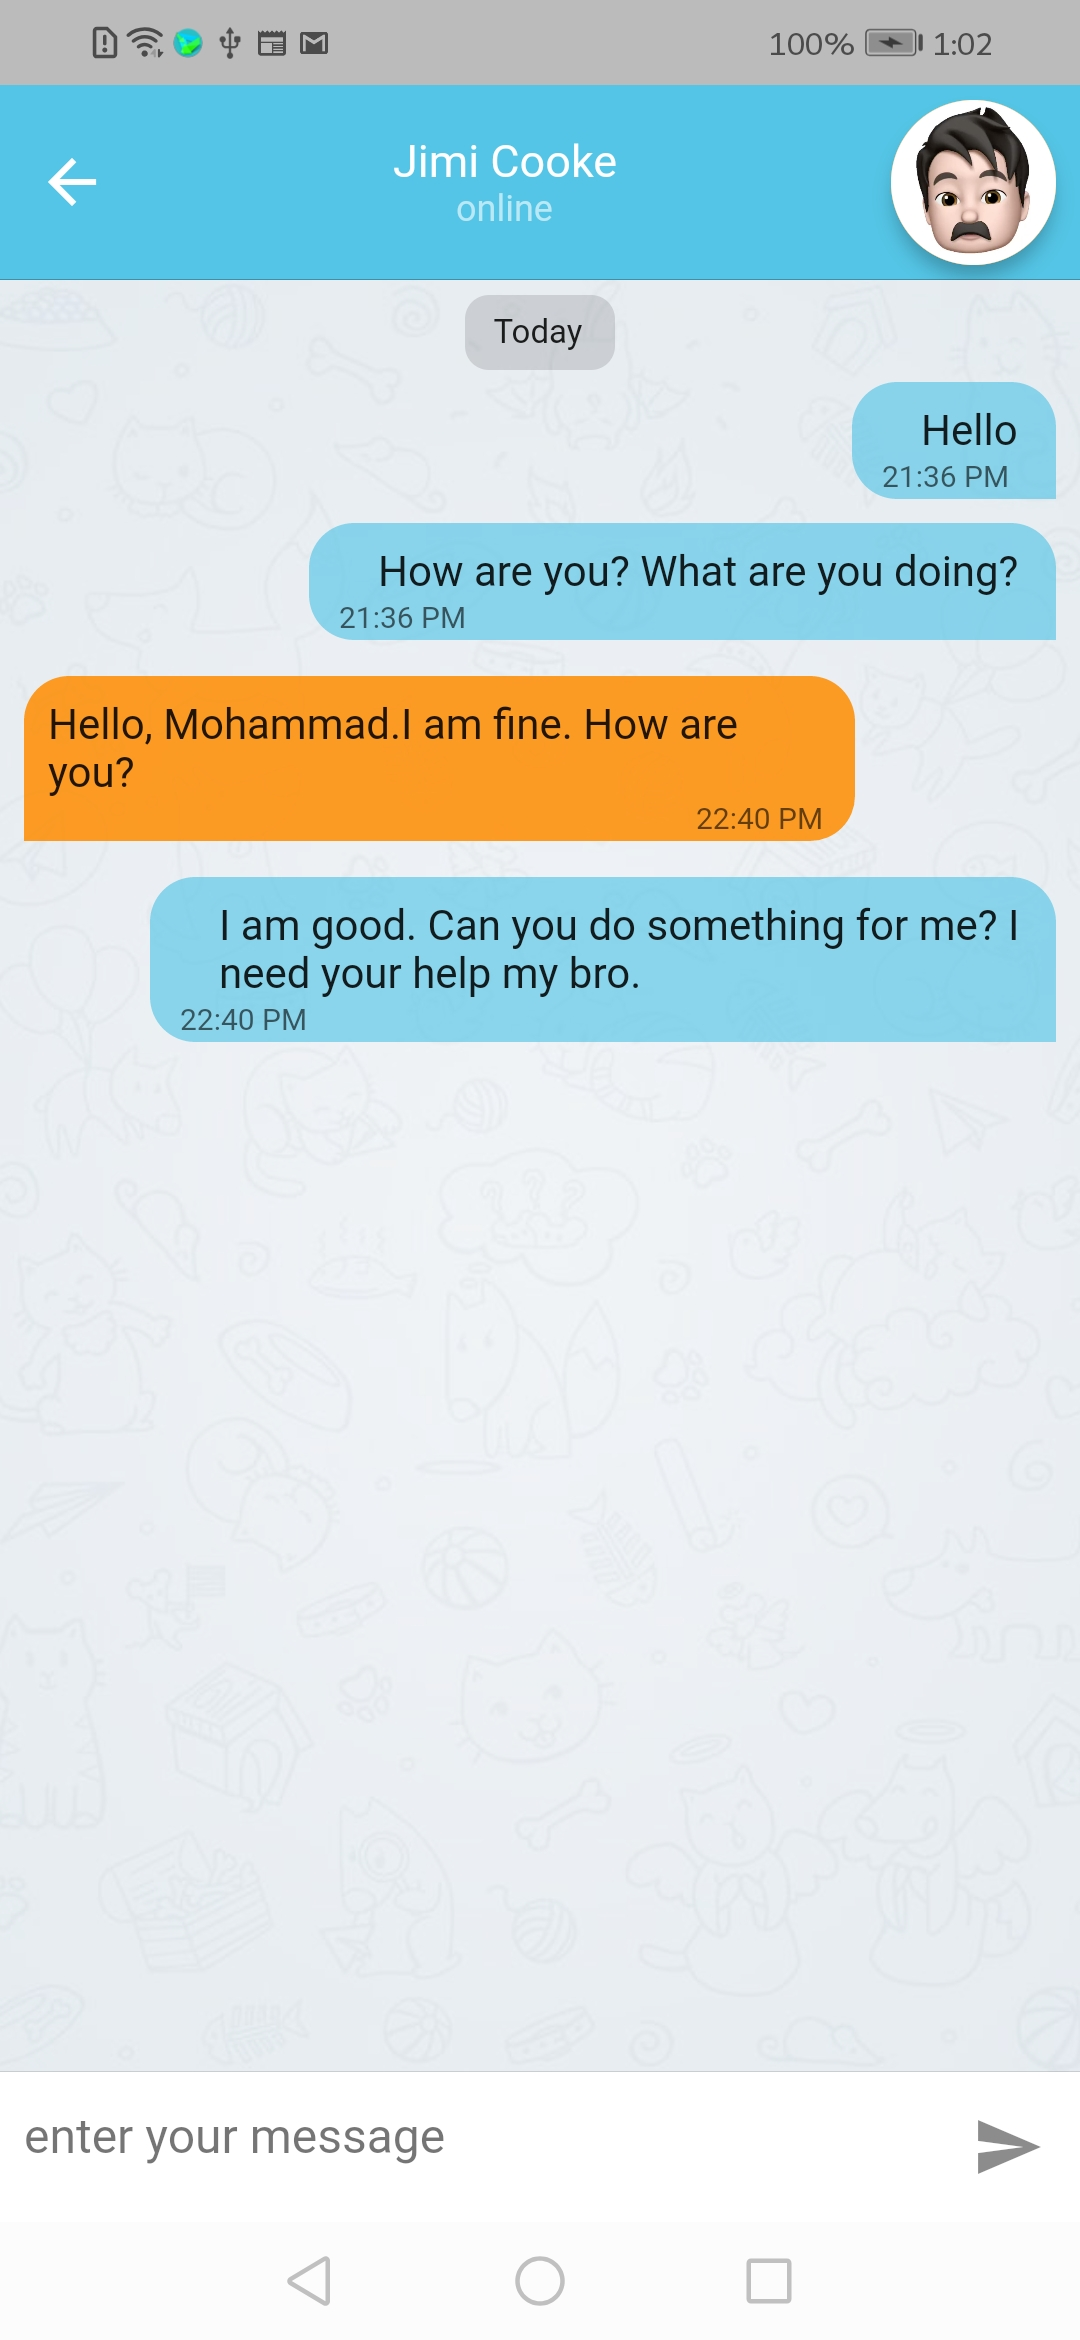
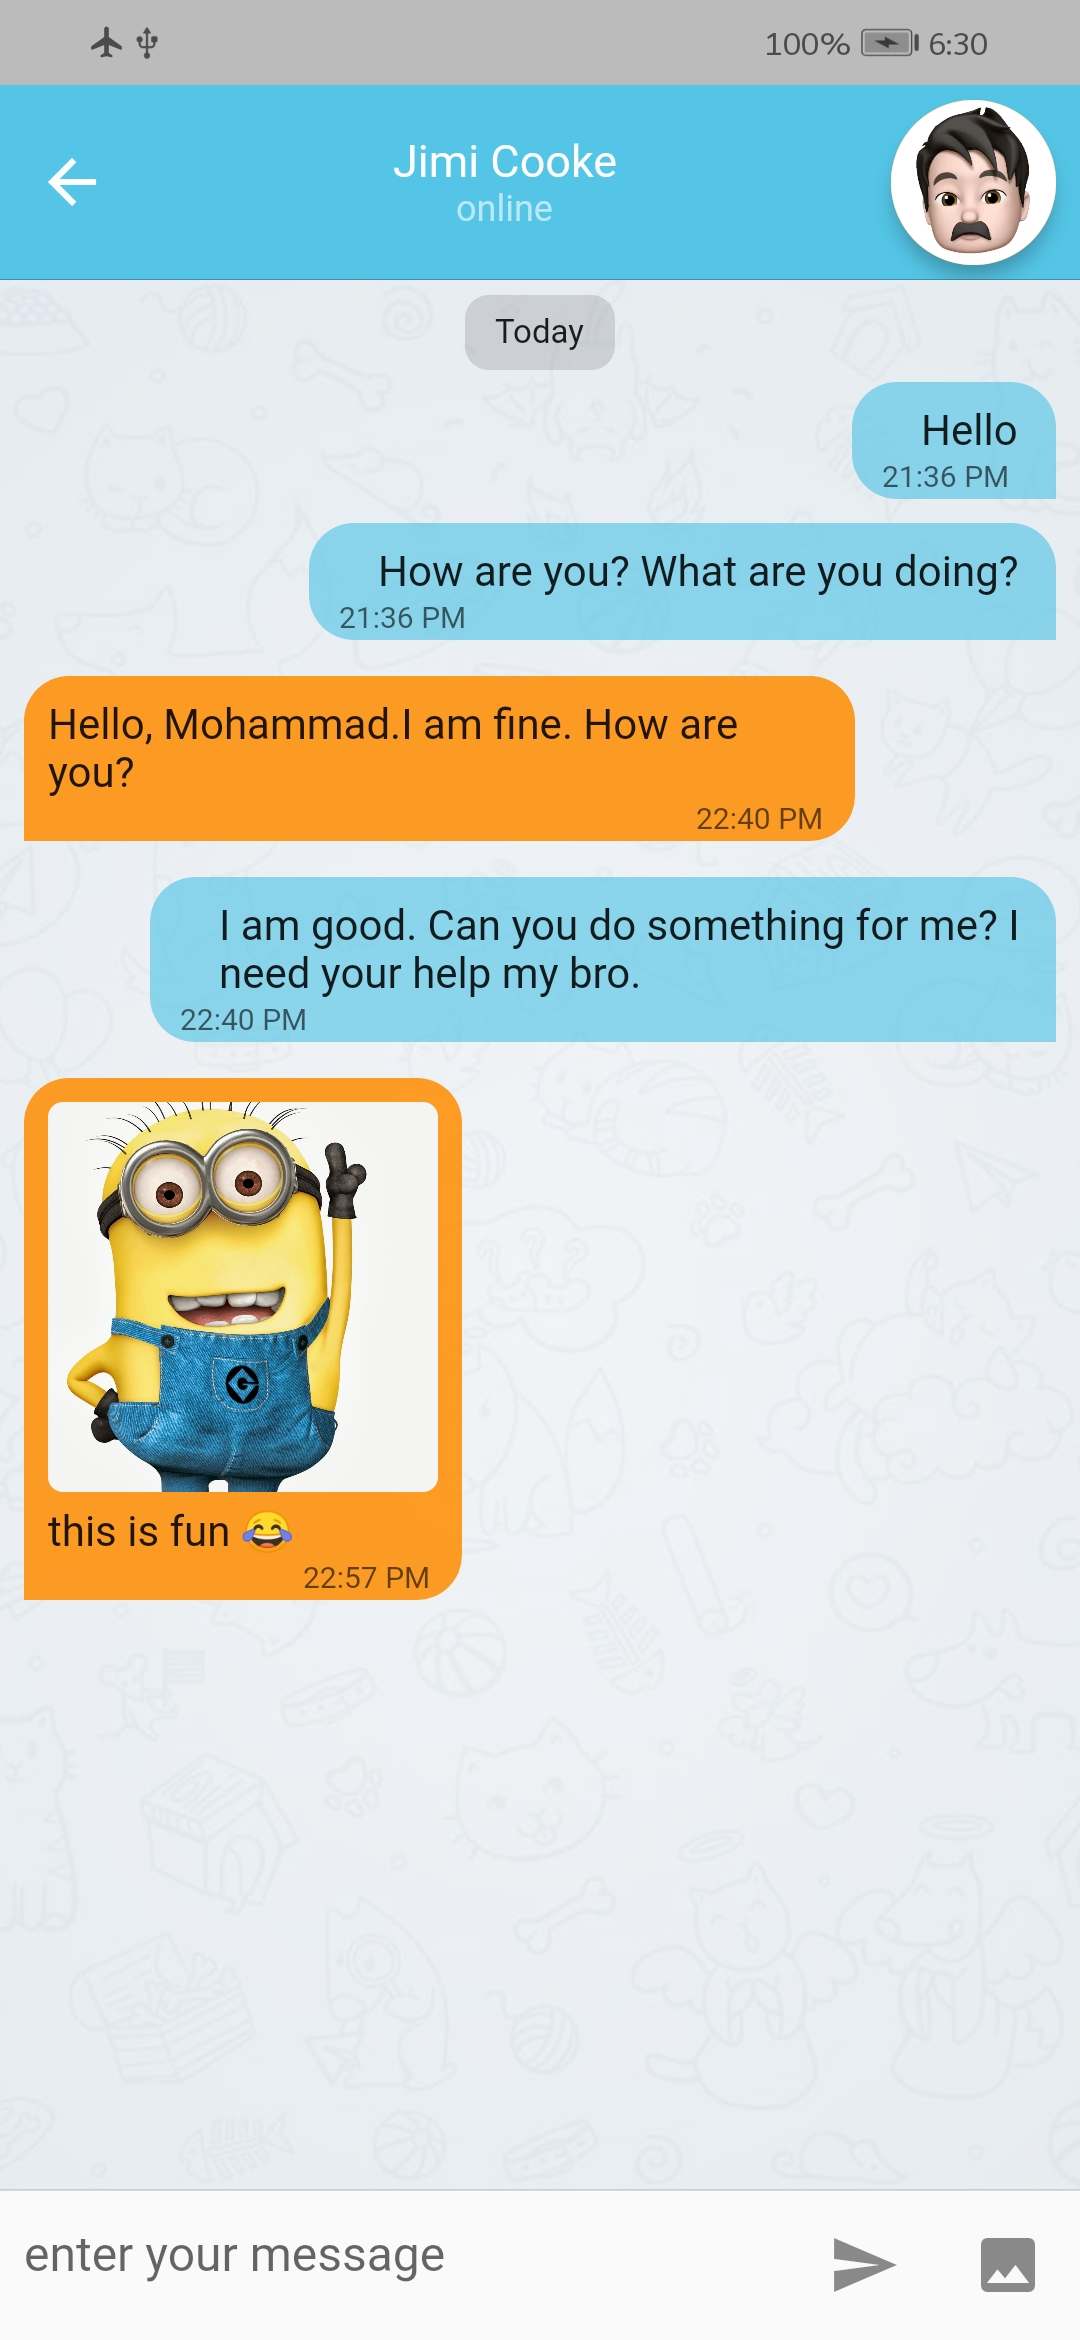
support image, add todo list

diff --git a/lib/View/ChatPageView.dart b/lib/View/ChatPageView.dart
@@ -46,6 +46,7 @@ class _ChatPageViewState extends State<ChatPageView> {
       child: SendedMessageWidget(
         content: 'Hello',
         time: '21:36 PM',
+        isImage: false,
       ),
     ));
     childList.add(Align(
@@ -53,6 +54,7 @@ class _ChatPageViewState extends State<ChatPageView> {
       child: SendedMessageWidget(
         content: 'How are you? What are you doing?',
         time: '21:36 PM',
+        isImage: false,
       ),
     ));
     childList.add(Align(
@@ -60,6 +62,7 @@ class _ChatPageViewState extends State<ChatPageView> {
       child: ReceivedMessageWidget(
         content: 'Hello, Mohammad.I am fine. How are you?',
         time: '22:40 PM',
+        isImage: false,
       ),
     ));
     childList.add(Align(
@@ -68,13 +71,18 @@ class _ChatPageViewState extends State<ChatPageView> {
         content:
             'I am good. Can you do something for me? I need your help my bro.',
         time: '22:40 PM',
+        isImage: false,
       ),
     ));
-  }
-
-  @override
-  void dispose() {
-    super.dispose();
+    childList.add(Align(
+      alignment: Alignment(-1, 0),
+      child: ReceivedMessageWidget(
+        content: 'this is fun 😂',
+        time: '22:57 PM',
+        isImage: true,
+        imageAddress: 'assets/images/fun.jpg',
+      ),
+    ));
   }
 
   @override
@@ -93,7 +101,9 @@ class _ChatPageViewState extends State<ChatPageView> {
                   SizedBox(
                     height: 65,
                     child: Container(
-                      color: Settings.isDarkMode ? Colors.grey[900] : MyColors.blue,
+                      color: Settings.isDarkMode
+                          ? Colors.grey[900]
+                          : MyColors.blue,
                       child: Row(
                         children: <Widget>[
                           IconButton(
@@ -112,11 +122,13 @@ class _ChatPageViewState extends State<ChatPageView> {
                             children: <Widget>[
                               Text(
                                 widget.username ?? "Jimi Cooke",
-                                style: TextStyle(color: Colors.white, fontSize: 15),
+                                style: TextStyle(
+                                    color: Colors.white, fontSize: 15),
                               ),
                               Text(
                                 "online",
-                                style: TextStyle(color: Colors.white60, fontSize: 12),
+                                style: TextStyle(
+                                    color: Colors.white60, fontSize: 12),
                               ),
                             ],
                           ),
@@ -168,7 +180,10 @@ class _ChatPageViewState extends State<ChatPageView> {
                             image: AssetImage(
                                 "assets/images/chat-background-1.jpg"),
                             fit: BoxFit.cover,
-                            colorFilter: Settings.isDarkMode ? ColorFilter.mode(Colors.grey[850], BlendMode.hardLight) : ColorFilter.linearToSrgbGamma()),
+                            colorFilter: Settings.isDarkMode
+                                ? ColorFilter.mode(
+                                    Colors.grey[850], BlendMode.hardLight)
+                                : ColorFilter.linearToSrgbGamma()),
                       ),
                       child: SingleChildScrollView(
                           controller: _scrollController,
@@ -189,9 +204,20 @@ class _ChatPageViewState extends State<ChatPageView> {
                         maxLines: 20,
                         controller: _text,
                         decoration: InputDecoration(
-                          suffixIcon: IconButton(
-                            icon: Icon(Icons.send),
-                            onPressed: () {},
+                          suffixIcon: Row(
+                            crossAxisAlignment: CrossAxisAlignment.end,
+                            mainAxisSize: MainAxisSize.min,
+                            mainAxisAlignment: MainAxisAlignment.start,
+                            children: [
+                              IconButton(
+                                icon: Icon(Icons.send),
+                                onPressed: () {},
+                              ),
+                              IconButton(
+                                icon: Icon(Icons.image),
+                                onPressed: () {},
+                              ),
+                            ],
                           ),
                           border: InputBorder.none,
                           hintText: "enter your message",

diff --git a/lib/Widget/ReceivedMessageWidget.dart b/lib/Widget/ReceivedMessageWidget.dart
@@ -1,14 +1,18 @@
-
 import 'package:flutter/material.dart';
-import 'package:simple_chat_application/Global/Colors.dart' as myColors;
+import 'package:simple_chat_application/Global/Colors.dart' as MyColors;
+import 'package:simple_chat_application/Global/Settings.dart' as Settings;
 
 class ReceivedMessageWidget extends StatelessWidget {
   final String content;
+  final String imageAddress;
   final String time;
+  final bool isImage;
   const ReceivedMessageWidget({
     Key key,
     this.content,
     this.time,
+    this.isImage,
+    this.imageAddress,
   }) : super(key: key);
 
   @override
@@ -24,24 +28,52 @@ class ReceivedMessageWidget extends StatelessWidget {
             topLeft: Radius.circular(15),
             topRight: Radius.circular(15)),
         child: Container(
-          color: myColors.orange[700],
-          child: Stack(children: <Widget>[
-            Padding(
-              padding: const EdgeInsets.only(right: 8.0, left: 8.0, top: 8.0, bottom: 15.0),
-              child: Text(
-                content,
-              ),
-            ),
-            Positioned(
-              bottom: 1,
-              right: 10,
-              child: Text(
-                time,
-                style: TextStyle(
-                    fontSize: 10, color: Colors.black.withOpacity(0.6)),
-              ),
-            )
-          ]),
+          color: Settings.isDarkMode ? MyColors.orange[700].withOpacity(0.5) : MyColors.orange[700],
+          child: Stack(
+            children: <Widget>[
+              !isImage
+                  ? Padding(
+                      padding: const EdgeInsets.only(
+                          right: 8.0, left: 8.0, top: 8.0, bottom: 15.0),
+                      child: Text(
+                        content,
+                      ),
+                    )
+                  : Padding(
+                      padding: const EdgeInsets.only(
+                          right: 8.0, left: 8.0, top: 8.0, bottom: 15.0),
+                      child: Column(
+                        crossAxisAlignment: CrossAxisAlignment.start,
+                        children: [
+                          ClipRRect(
+                            borderRadius: BorderRadius.all(Radius.circular(5)),
+                            child: Image.asset(
+                              imageAddress,
+                              height: 130,
+                              width: 130,
+                              fit: BoxFit.cover,
+                            ),
+                          ),
+                          SizedBox(
+                            height: 5,
+                          ),
+                          Text(
+                            content,
+                          )
+                        ],
+                      ),
+                    ),
+              Positioned(
+                bottom: 1,
+                right: 10,
+                child: Text(
+                  time,
+                  style: TextStyle(
+                      fontSize: 10, color: Colors.black.withOpacity(0.6)),
+                ),
+              )
+            ],
+          ),
         ),
       ),
     ));

diff --git a/lib/Widget/SendedMessageWidget.dart b/lib/Widget/SendedMessageWidget.dart
@@ -3,11 +3,15 @@ import 'package:simple_chat_application/Global/Colors.dart' as myColors;
 
 class SendedMessageWidget extends StatelessWidget {
   final String content;
+  final String imageAddress;
   final String time;
+  final bool isImage;
   const SendedMessageWidget({
     Key key,
     this.content,
     this.time,
+    this.imageAddress,
+    this.isImage,
   }) : super(key: key);
 
   @override
@@ -26,12 +30,38 @@ class SendedMessageWidget extends StatelessWidget {
             color: myColors.blue[500],
             // margin: const EdgeInsets.only(left: 10.0),
             child: Stack(children: <Widget>[
-              Padding(
-                padding: const EdgeInsets.only(right: 12.0, left: 23.0, top: 8.0, bottom: 15.0),
-                child: Text(
-                  content,
-                ),
-              ),
+              !isImage
+                  ? Padding(
+                      padding: const EdgeInsets.only(
+                          right: 12.0, left: 23.0, top: 8.0, bottom: 15.0),
+                      child: Text(
+                        content,
+                      ),
+                    )
+                  : Padding(
+                      padding: const EdgeInsets.only(
+                          right: 12.0, left: 23.0, top: 8.0, bottom: 15.0),
+                      child: Column(
+                        crossAxisAlignment: CrossAxisAlignment.start,
+                        children: [
+                          ClipRRect(
+                            borderRadius: BorderRadius.all(Radius.circular(5)),
+                            child: Image.asset(
+                              imageAddress,
+                              height: 130,
+                              width: 130,
+                              fit: BoxFit.cover,
+                            ),
+                          ),
+                          SizedBox(
+                            height: 5,
+                          ),
+                          Text(
+                            content,
+                          )
+                        ],
+                      ),
+                    ),
               Positioned(
                 bottom: 1,
                 left: 10,

diff --git a/README.md b/README.md
@@ -3,6 +3,17 @@
 This template is a simple chat ui build with flutter ui toolkit. 
 [![Codemagic build status](https://api.codemagic.io/apps/5ea09dbc6d0f2d0012d470c8/5ea09dbc6d0f2d0012d470c7/status_badge.svg)](https://codemagic.io/apps/5ea09dbc6d0f2d0012d470c8/5ea09dbc6d0f2d0012d470c7/latest_build)
 
+## TODO
+- [x] dark mode
+- [x] support image
+- [ ] support gif, video, ...
+- [ ] web mode
+- [ ] desktop mode
+
 ## Screenshots
 
 <img align = "center" src="screenshots/screenShot1.jpg" width=32%> <img align = "center" src="screenshots/screenShot2.jpg" width=32%> <img align = "center" src="screenshots/screenShot3.jpg" width=32%>
+
+### Dark Mode
+
+<img align = "center" src="screenshots/screenShot1Dark.jpg" width=32%> <img align = "center" src="screenshots/screenShot2Dark.jpg" width=32%> <img align = "center" src="screenshots/screenShot3Dark.jpg" width=32%>
